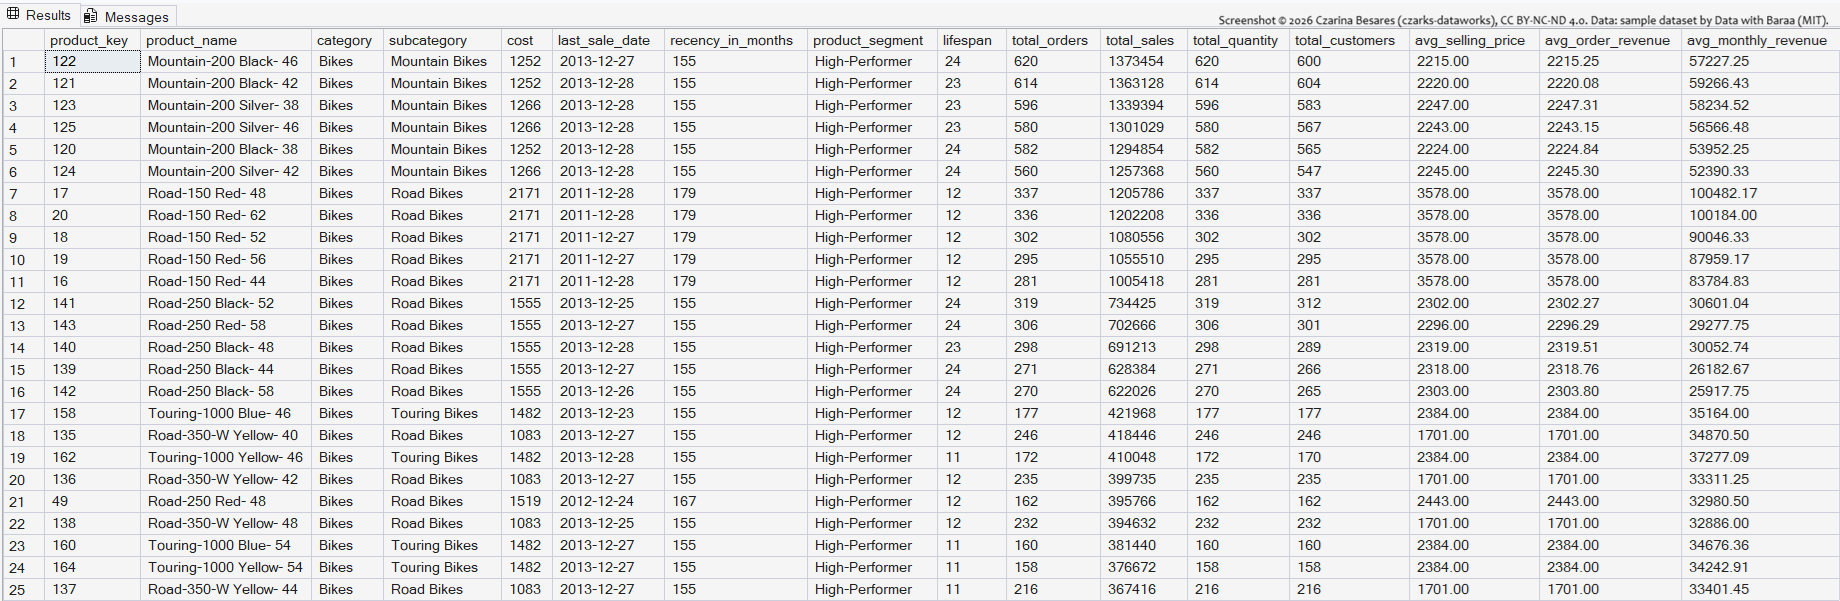
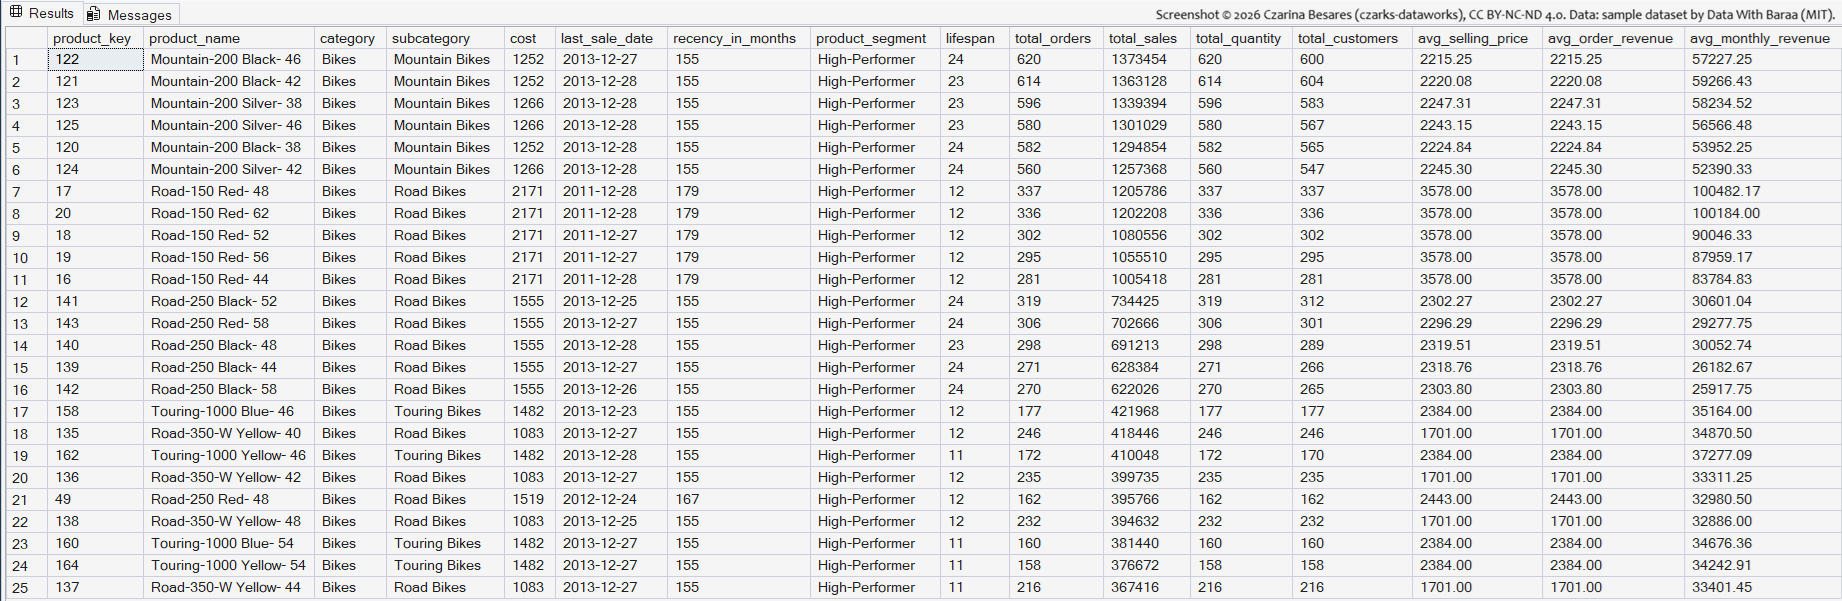
Fix avg_selling_price decimals in script 13
Move 1.0 * inside AVG() so each row's price is computed as a decimal before averaging. Integer division truncated the values previously.

Updated the README copy of the script and the embedded product report screenshot (docs/06_report_products_top25.png) to match.

Changed region(s): [[0.0, 0.0, 1.0, 1.0]]

diff --git a/README.md b/README.md
@@ -268,7 +268,7 @@ SELECT
     COUNT(DISTINCT customer_key) AS total_customers,
     SUM(sales_amount) AS total_sales,
     SUM(quantity) AS total_quantity,
-	CAST(1.0 * AVG(sales_amount / NULLIF(quantity, 0)) AS DECIMAL(18, 2))
+	CAST(AVG(1.0 * sales_amount / NULLIF(quantity, 0)) AS DECIMAL(18, 2))
         AS avg_selling_price
 FROM base_query
 GROUP BY
